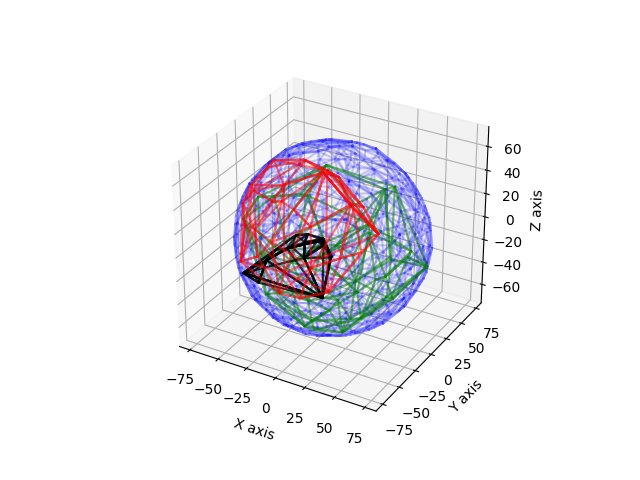
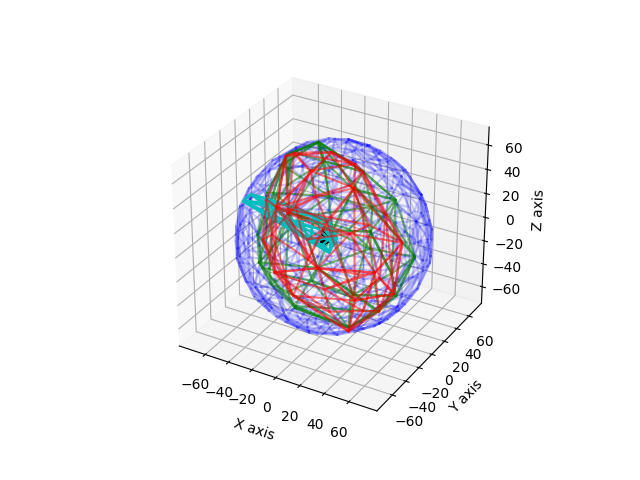
some plot edits vigynesh and requirements for cluster means

diff --git a/tools/test_tsne_vig.py b/tools/test_tsne_vig.py
@@ -43,7 +43,7 @@ from bokeh.plotting import figure, save, output_file
 from sklearn.cluster import DBSCAN
 import seaborn as sns
 
-folder = './graphs/random_test2/'
+folder = './graphs/new_test/'
 print(os.listdir('.'))
 files = os.listdir(folder)
 files = [file for file in files if file.endswith('.pickle')]
@@ -61,7 +61,7 @@ from torch_geometric.utils.convert import from_networkx
 import matplotlib
 import matplotlib.pyplot as plt
 import networkx as nx
-matplotlib.use("TkAgg") 
+matplotlib.use("MacOSX") 
 import random 
 from torch_geometric.loader import NeighborLoader
 import numpy as np
@@ -73,10 +73,10 @@ from params import *
 
 counter = 0
 for row in metadata.iterrows():
-    if counter == 10:
+    if counter == 100:
         # counter += 1
         continue
-
+        # pass
     else:        
         # pdb.set_trace()
         fname = folder +'_'+str(row[1][1]) + str(row[1][2]) + str(row[1][3]) + '.pickle'
@@ -98,9 +98,9 @@ for row in metadata.iterrows():
         # pos = nx.spring_layout(sampled_graph)#, pos=positions)
         # pos = nx.nx_pydot.graphviz_layout(sampled_graph)
         ''' NEATO'''
-        fil_pos = open('poses_test.pickle', 'rb')
-        pos = pickle.load(fil_pos)
-        fil_pos.close()
+        # fil_pos = open('poses_test.pickle', 'rb')
+        # pos = pickle.load(fil_pos)
+        # fil_pos.close()
 
         # positions_ = nx.spring_layout(sampled_graph)  
 
@@ -109,23 +109,25 @@ for row in metadata.iterrows():
         colors_ = [a for a in nx.get_node_attributes(sampled_graph, 'colors').values()]
         alphas_ = [0.2 if color=='r' else 1.0 for color in colors_]
         sizes_ = [size * 0.1 if color == 'r' else size * 10.0 if color == 'g' else size for size, color in zip(sizes_, colors_)]
-
+        pdb.set_trace()
         colors_plotly = ['red' if color=='r' else 'blue' if color=='b' else 'green' if color=='g' else 'black' for color in colors_]
         # plt.figure(0)
         # pdb.set_trace()
-        if draw:
-            plt.figure()
-            try:
-                nx.draw_networkx_nodes(sampled_graph, pos, node_size=sizes_, node_color=colors_, alpha=alphas_) #pos=nx.spring_layout(sampled_graph),
-            except:
-                pdb.set_trace()
-            for edge in sampled_graph.edges(data='weight'):
-                nx.draw_networkx_edges(sampled_graph, pos, edgelist=[edge], width=0.2*edge[2])
-            plt.savefig("test_random2.png")
-            print(sampled_graph.number_of_edges())
+        # if draw:
+        #     plt.figure()
+        #     try:
+        #         nx.draw_networkx_nodes(sampled_graph, pos, node_size=sizes_, node_color=colors_, alpha=alphas_) #pos=nx.spring_layout(sampled_graph),
+        #     except:
+        #         pdb.set_trace()
+        #     for edge in sampled_graph.edges(data='weight'):
+        #         nx.draw_networkx_edges(sampled_graph, pos, edgelist=[edge], width=0.2*edge[2])
+        #     plt.savefig("test_random2.png")
+        #     print(sampled_graph.number_of_edges())
 
         # pdb.set_trace()
-        data = GraphDataset(fname,  train_percent, num_neighbors_sampling).pyg_graph
+
+        data = GraphDataset(dat,  train_percent, num_neighbors_sampling).pyg_graph
+        # data = GraphDataset(fname,  train_percent, num_neighbors_sampling).pyg_graph
         print('data loaded')
 
 
@@ -140,39 +142,45 @@ for row in metadata.iterrows():
 
         dict_twod = {'x': list(two_d2[:,0]), 'y': list(two_d2[:,1]), 'colors': colors_plotly}
         dict_3d = {'x': list(d3Trans[:,0]), 'y': list(d3Trans[:,1]), 'z': list(d3Trans[:,2]), 'colors': colors_plotly}
+        list_of_succ_fail = []
+        cluster_centroids = []
+        cluster_times = []
+        cluster_time_mean = []
+        cluster_time_variance = []
 
-        data_2d = pd.DataFrame(dict_twod)
-        dbscan = DBSCAN(eps=5, min_samples=50)
-        labels = dbscan.fit_predict(data_2d[['x', 'y']])
 
-        data_2d['cluster'] = labels
-        sns.set(style="whitegrid")
-        plt.figure(figsize=(10, 6))
-        sns.scatterplot(x='x', y='y', hue='cluster', palette='viridis', data=data_2d, s=100, legend='full')
+        # data_2d = pd.DataFrame(dict_twod)
+        # dbscan = DBSCAN(eps=5, min_samples=50)
+        # labels = dbscan.fit_predict(data_2d[['x', 'y']])
 
-        plt.title('DBSCAN Clustering Results')
-        plt.show()
+        # data_2d['cluster'] = labels
+        # sns.set(style="whitegrid")
+        # plt.figure(figsize=(10, 6))
+        # sns.scatterplot(x='x', y='y', hue='cluster', palette='viridis', data=data_2d, s=100, legend='full')
+
+        # plt.title('DBSCAN Clustering Results')
+        # plt.show()
 
         data_3d = pd.DataFrame(dict_3d)
-
+        # pdb.set_trace()
         # Perform DBSCAN clustering
         dbscan = DBSCAN(eps=5, min_samples=50)
         labels_3d = dbscan.fit_predict(data_3d[['x', 'y', 'z']])
 
         data_3d['cluster'] = labels_3d
 
-        # Plot the results
-        fig = plt.figure(figsize=(12, 8))
-        ax = fig.add_subplot(111, projection='3d')
         marker_styles = {'red': 'o', 'blue': '^', 'green': 's', 'black': 'x'}
         label_names = {'red': 'intermediate', 'blue': 'success', 'green': 'failure', 'black': 'start'}
+        cmap = matplotlib.cm.get_cmap('Spectral')
 
-        for color in set(colors_plotly):
-            data_color = data_3d[data_3d['colors'] == color]
-            ax.scatter(data_color['x'], data_color['y'], data_color['z'],
-                    c=color, marker=marker_styles[color], s=100, label=label_names[color], alpha=alphas_)
-
-        # # Add colorbar
+        fig = plt.figure(figsize=(12, 8))
+        ax = fig.add_subplot(111, projection='3d')
+        for i in range(len(data_3d['x'].values)):
+            ax.plot(data_3d['x'][i], data_3d['y'][i], data_3d['z'][i], c=cmap(data_3d['cluster'][i]/26.0), marker=marker_styles[data_3d['colors'][i]], alpha = alphas_[i])
+        # scatter = ax.scatter(data_3d['x'], data_3d['y'], data_3d['z'], c=data_3d['cluster'], cmap='viridis', s=100)
+            # ax.scatter(data_3d['x'][i], data_3d['y'][i], data_3d['z'][i], c=data_3d['cluster'][i], cmap='viridis', marker=[marker_styles[color] for color in data_3d['colors'].values], s=100)
+        # sns.scatterplot(data = data_3d,  x='x', y='y',)
+        # Add colorbar
         # cb = plt.colorbar(scatter, ax=ax, pad=0.1)
         # cb.set_label('Cluster')
 
@@ -180,8 +188,6 @@ for row in metadata.iterrows():
         ax.set_ylabel('Y')
         ax.set_zlabel('Z')
         plt.title('DBSCAN Clustering Results (3D)')
-
-        plt.legend(loc='best')
         plt.show()
 
         # from mpl_toolkits.mplot3d import Axes3D

diff --git a/tools/load_all_data_run_tsne.py b/tools/load_all_data_run_tsne.py
@@ -91,7 +91,7 @@ print('data loaded')
 # pdb.set_trace()
 # dat = dat[:500000,:]
 
-tsne3 = TSNE(n_components=3, perplexity=10, verbose=1, n_jobs=20)
+tsne3 = TSNE(n_components=3, verbose=1, n_jobs=20)
 d3Trans = tsne3.fit_transform(dat)
 print('tsne done')
 
@@ -100,7 +100,7 @@ print('tsne done')
 # pickle.dump(d2Trans,fil_tsne2)
 # fil_tsne2.close()
 
-fil_tsne3 = open(folder +'combined_tsne3_10_perp.pickle', 'wb')
+fil_tsne3 = open(folder +'combined_tsne3.pickle', 'wb')
 pickle.dump(d3Trans,fil_tsne3)
 fil_tsne3.close()
 
@@ -216,7 +216,7 @@ for simplex in redHull.simplices:
 
 ax.set_aspect('equal', adjustable='box')
 
-plt.savefig('combined_3d.png')
+plt.savefig('combined_3d_auto.png')
 
 plt.show()
 # exit()
